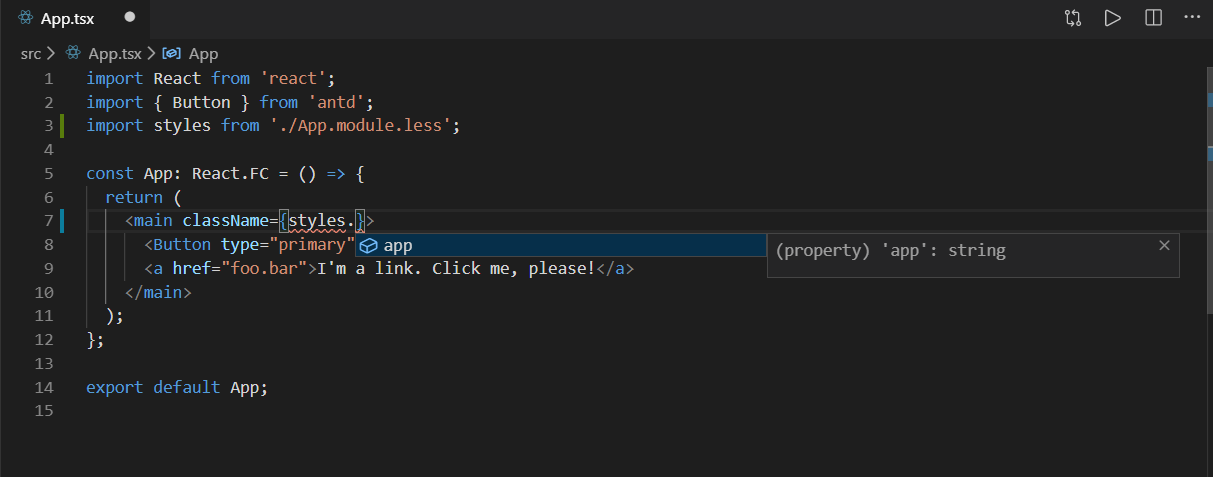
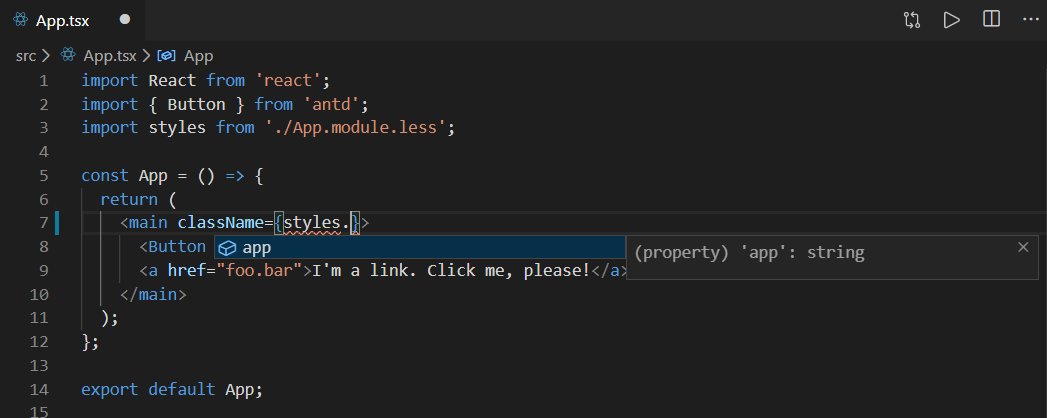
Update react+typescript+antd tutorial and fix minor mistakes

diff --git a/_posts/dev/2019-12-03-how-to-set-up-react-typescript-ant-design-less-css-modules-and-eslint.md b/_posts/dev/2019-12-03-how-to-set-up-react-typescript-ant-design-less-css-modules-and-eslint.md
@@ -12,10 +12,12 @@ Let's skip the BS and just jump right in. I'll use VS Code to make my life easie
 Switch to your target project directory and run this command:
 
 ```bash
-npx create-react-app . --typescript
+npx create-react-app . --template typescript
 ```
 
 This uses Facebook's [create-react-app](https://create-react-app.dev/) to initialize a React project with TypeScript. React by itself is pretty powerful, but React with TypeScript is a much, *much* better dev experience, in my opinion.
+
+> **Note**: You may come across older tutorials that simply pass in the `--typescript` flag to this command. That used to work, but [it was recently deprecated](https://github.com/facebook/create-react-app/tree/master/packages/cra-template-typescript). CRA now uses the template flag.
 
 Here's what your directory structure and `package.json` should roughly look like once that's done:
 
@@ -109,7 +111,7 @@ Let's try it out. Open up your `App.tsx` and replace it with the following:
 import React from 'react';
 import { Button } from 'antd';
 
-const App: React.FC = () => {
+const App = () => {
   return (
     <main
       style={{
@@ -161,8 +163,8 @@ module.exports = override(
   addLessLoader({
     javascriptEnabled: true,
     modifyVars: {
-      '@primary-color': '#3c66a3', // customize as needed
-      '@link-color': '#1890ff', // customize as needed
+      '@primary-color': '#f48549', // customize as needed
+      '@link-color': '#e6a07c', // customize as needed
       '@font-size-base': '18px' // customize as needed
     }
   })
@@ -249,7 +251,27 @@ With VS Code's intellisense, you won't have to guess or remind yourself what you
 
 {% include posts/picture.html img="intellisense" ext="PNG" alt="VS Code autocomplete for TypeScript CSS Modules." %}
 
-Awesome! 😎
+Awesome! 😎 Here's what the component file should look like in the end:
+
+{% include posts/codeHeader.html name="src/App.tsx" %}
+{% raw %}
+```jsx
+import React from 'react';
+import { Button } from 'antd';
+import styles from './App.module.less';
+
+const App = () => {
+  return (
+    <main className={styles.app}>
+      <Button type="primary">Hello, Ant Design!</Button>
+      <a href="foo.bar">I'm a link. Click me, please!</a>
+    </main>
+  );
+};
+
+export default App;
+```
+{% endraw %}
 
 Refresh the page, and you'll see that it looks exactly the same, except we now get to take advantage of CSS Modules and LESS (as well as potentially SASS or vanilla CSS, if you'd like to use those instead).
 
@@ -347,7 +369,7 @@ Then, click on `Preferences: Open Settings (JSON)`:
 
 {% include posts/picture.html img="command-palette" ext="PNG" alt="Opening user settings via the VS Code command palette." %}
 
-Stick this in the JSON blob somewhere:
+Stick this somewhere inside the existing JSON blob:
 
 ```json
 "[typescript]": {
